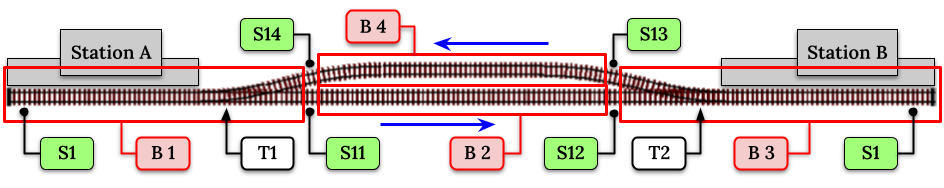
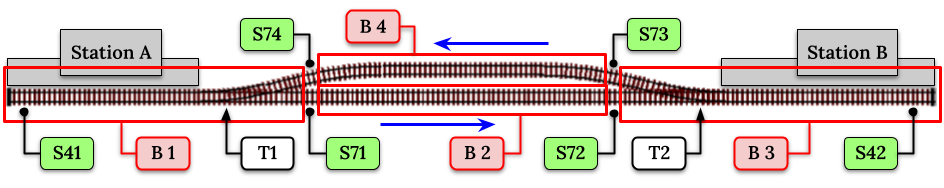
Update Example images and scripts.

diff --git a/docs/Automation/EX-RAIL-intro.rst b/docs/Automation/EX-RAIL-intro.rst
@@ -242,15 +242,15 @@ Adding a station signal to the loop script is extremely simple, but it does requ
    SIGNAL(77,78,79)  // see later for details
    AUTOMATION(4,"Round in circles")
       FWD(50)   // move forward at DCC speed 50 (out of 127)
-      AT(40)     // when you get to sensor on pin (40)
+      AT(40)    // when you get to sensor on pin (40)
       STOP      // Stop the train 
       DELAYRANDOM(5000,20000) // delay somewhere between 5 and 20 seconds
-      GREEN(77)
-      DEALY(25)  // This is not Formula1!
-      FWD(30)   // start a bit slower
+      GREEN(77)    // set signal #77 to Green
+      DELAY(2500)  // This is not Formula1!
+      FWD(30)    // start a bit slower
       AFTER(40)  // until sensor on pin 40 has been passed
-      RED(77)
-      FOLLOW(4) // and continue to follow the automation
+      RED(77)    // set signal #77 to Red
+      FOLLOW(4)  // and continue to follow the automation
 
 Example 6: Single line shuttle
 *******************************
@@ -375,7 +375,7 @@ So… lets take a look at the routes now. For convenience I have used route numb
       RESERVE(3) // will STOP if block 3 occupied
       CLOSE(2) // Now we have the block, we can set turnouts
       FWD(20) // we may or may not have stopped at the RESERVE
-      AT(2) // sensor 2 is at the far end of platform B
+      AT(42) // sensor 2 is at the far end of platform B
       STOP
       FREE(2)
       DELAY(15000)
@@ -385,26 +385,26 @@ So… lets take a look at the routes now. For convenience I have used route numb
       RESERVE(4)
       THROW(2)
       REV(20)
-      AFTER(13)
+      AFTER(73)
       FREE(3)
-      AT(14)
+      AT(74)
       FOLLOW(41)
    
    SEQUENCE(41)
       RESERVE(1)
       CLOSE(1)
       REV(20)
-      AT(1)
+      AT(41)
       STOP
       FREE(4)
       FOLLOW(12) // follows Route 12 again… forever
 
 
-Does that look long? Worried about memory on your Arduino…. Well the script above takes about 100 BYTES of program memory and no dynamic.
+Does that look long? Worried about memory on your Arduino…. Well the script above takes about 100 BYTES of program memory and no dynamic SRAM!
 
-If you follow this carefully, it allows for up to 3 trains at a time because one of them will always have somewhere to go. Notice that there is common theme to this…
+If you follow this carefully, it allows for up to 3 trains at a time because one of them will always have somewhere to go. Notice that there is a common theme to this…
 
--  RESERVE where you want to go, if you are moving and the reserve    fails, your loco will STOP and the reserve waits for the block to become available. (these waits and the manual WAITS do not block the Arduino process… DCC and the other locos continue to follow their routes)
+-  RESERVE where you want to go, if you are moving and the reserve fails, your loco will STOP and the reserve waits for the block to become available. (these waits and the manual WAITS do not block the Arduino process… DCC and the other locos continue to follow their routes)
 
 -  Set the points to enter the reserved area.. do that ASAP as you may be still moving towards them. 
    
@@ -416,7 +416,7 @@ If you follow this carefully, it allows for up to 3 trains at a time because one
 
 -  Free off your previous reserve as soon as you have fully left the block
 
-In addition, it is possible to take decisions based on blocks reserved by other trains. The IFRESERVE(block) can be used to reserve a block if it not already reserved by some other train, or skip to the matching ENDIF. For example, this allows a train to choose which platform to stop at based on prior occupancy. It is features like this that allow for more interesting and unpredictable automations.       
+In addition, it is possible to take decisions based on blocks reserved by other trains. The IFRESERVE(block) can be used to reserve a block if it's not already reserved by some other train, or skip to the matching ENDIF. For example, this allows a train to choose which platform to stop at based on prior occupancy. It is features like this that allow for more interesting and unpredictable automations.       
 
 Starting the system
 ===================
